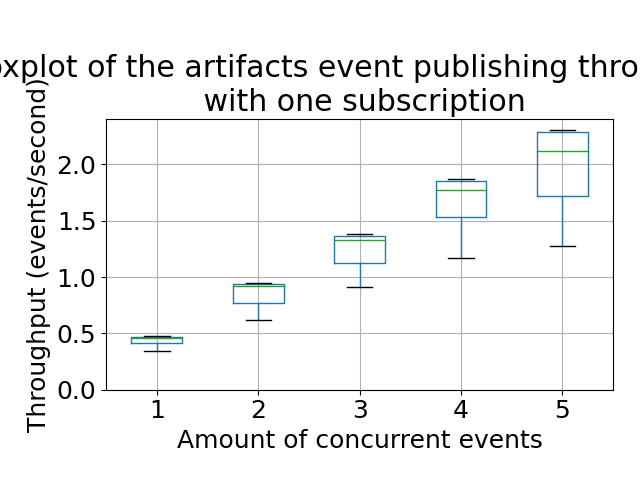
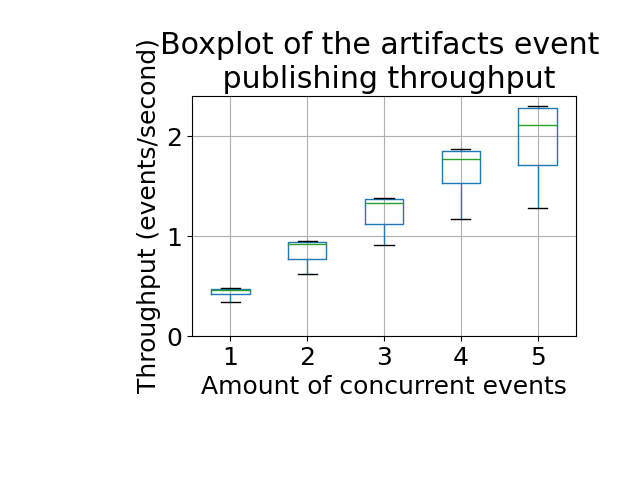
how does it look

diff --git a/caseStudies/visualizePerformanceTestResults.py b/caseStudies/visualizePerformanceTestResults.py
@@ -8,12 +8,12 @@ matplotlib.rcParams.update({'font.size': 18})
 def main(file_path):
     df = pandas.read_csv(file_path)
     df.boxplot(column="throughput", by="parallel events")
-    plt.title("Boxplot of the artifacts event publishing throughput \n with one subscription")
+    plt.title("Boxplot of the artifacts event \n publishing throughput")
     plt.suptitle("")
     plt.xlabel("Amount of concurrent events")
     plt.ylabel("Throughput (events/second)")
     plt.ylim(ymin=0)
-    plt.tight_layout()
+    plt.subplots_adjust(left=0.3, right=0.9, bottom=0.3, top=0.8)
     plt.savefig(file_path[:-4]+"Throughput.png")
 
     df.boxplot(column="latency", by="parallel events")
